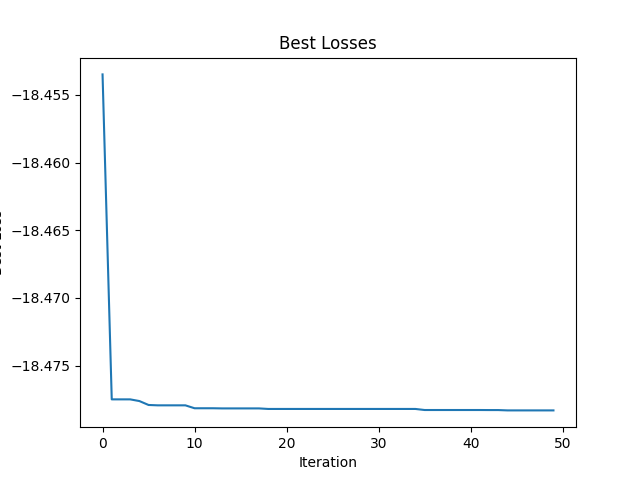
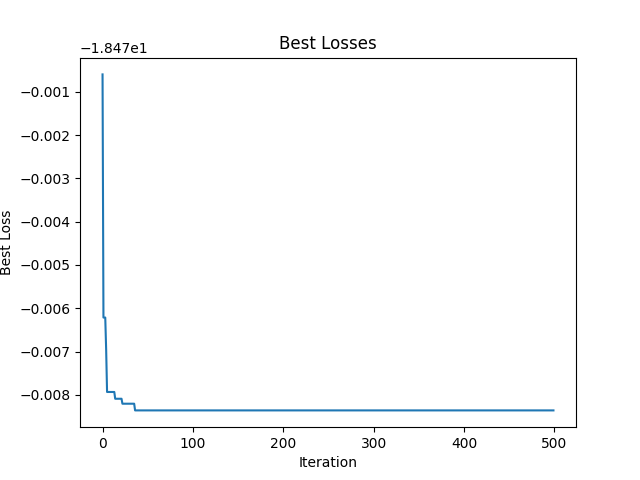
iters results

diff --git a/scripts/pso_local2.py b/scripts/pso_local2.py
@@ -437,8 +437,8 @@ if __name__ == "__main__":
         cell = extract_cell(cif)
 
         options = {'c1': 0.5, 'c2': 0.3, 'w': 0.9}  # cognitive, social, inertia
-        particles = 100  # number of particles in system
-        iters = 50
+        particles = 10  # number of particles in system
+        iters = 500
         local_steps = 50
 
         cell_perturb = False
